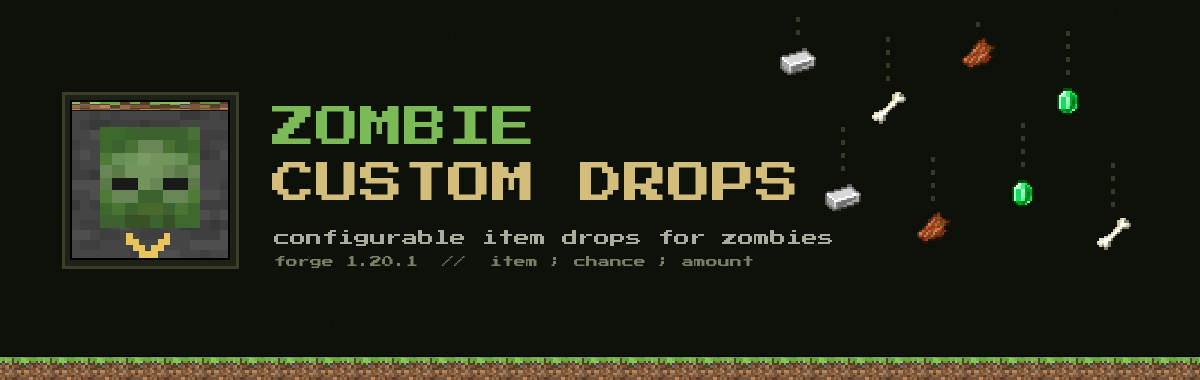
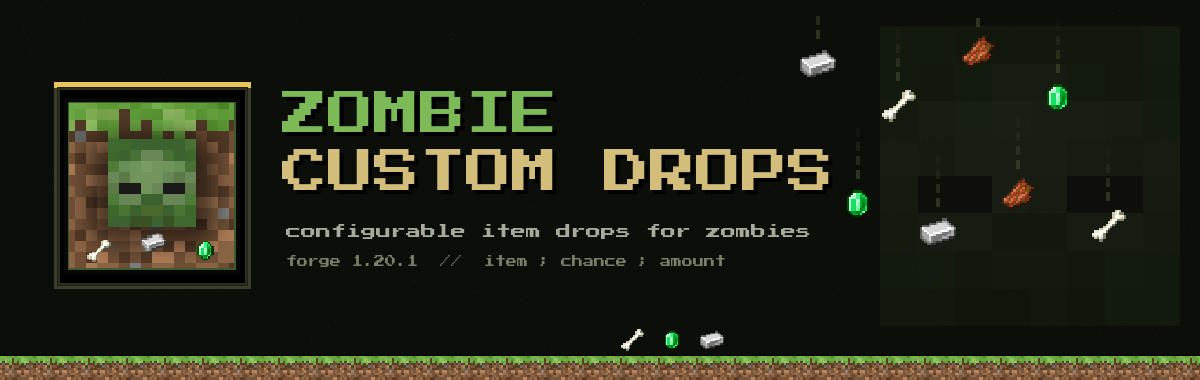
Polish README + brand assets for 1.0.0-beta
Reworked banner (shadowed title, item rain with motion trails, watermark
face, vignette) and logo (full-bleed grass-block face with embedded
zombie head + drops). README gains badges, feature list, entry-format
table and requirements. tools/ is now gitignored - asset generator stays
local. Mod version bumped to 1.20.1-1.0.0-beta.

diff --git a/tools/make_assets.py b/tools/make_assets.py
@@ -4,68 +4,108 @@ Outputs:
   docs/logo.png    128x128 mod icon (also copied to src/main/resources/logo.png)
   docs/banner.png  1200x380 repo/curseforge banner
 """
+import math
 import random
 from pathlib import Path
-from PIL import Image, ImageDraw, ImageFont
+from PIL import Image, ImageDraw, ImageFilter, ImageFont
 
 ROOT = Path(__file__).resolve().parent.parent
 FONT = str(ROOT / 'tools' / 'PressStart2P.ttf')
 VAN = ROOT / 'tools' / 'vanilla'
 random.seed(7)
 
-BG    = (14, 16, 10)
-BG2   = (20, 23, 14)
-KHAKI = (211, 189, 122)
-MUTE  = (122, 128, 104)
+BG      = (12, 14, 9)
+BG2     = (19, 22, 13)
+PANEL   = (30, 33, 22)
+EDGE    = (58, 62, 42)
+KHAKI   = (211, 189, 122)
+MUTE    = (122, 128, 104)
 GREEN_L = (124, 186, 88)
-GOLD  = (232, 196, 90)
+GREEN_D = (60, 92, 44)
+GOLD    = (232, 196, 90)
+BONE    = (198, 198, 190)
 
 ZFACE = Image.open(VAN / 'zface.png')          # 8x8 vanilla zombie face
+ZSKIN = Image.open(VAN / 'zombie.png')         # 64x64 vanilla zombie skin
 ITEMS = {k: Image.open(VAN / f'{k}.png') for k in ('iron_ingot', 'bone', 'rotten_flesh', 'emerald')}
 GRASS_SIDE = Image.open(VAN / 'grass_block_side.png')
-DIRT = Image.open(VAN / 'dirt.png')
 STONE = Image.open(VAN / 'stone.png')
 
 
-def tile(img, tex, box):
-    """Tile a 16x16 block texture across box (x0,y0,x1,y1), scaled px/tex-px."""
-    pass  # unused
+def zombie_head(scale):
+    """Flat 2D vanilla zombie face, nearest-neighbour scaled."""
+    return ZFACE.resize((ZFACE.width * scale, ZFACE.height * scale), Image.NEAREST)
 
 
-def down_arrow(g, ox, oy, px=1, color=GOLD):
-    rows = ["X     X",
-            "XX   XX",
-            " XX XX ",
-            "  XXX  ",
-            "   X   "]
-    for y, row in enumerate(rows):
-        for x, ch in enumerate(row):
-            if ch == 'X':
-                g.rectangle([ox + x * px, oy + y * px,
-                             ox + (x + 1) * px - 1, oy + (y + 1) * px - 1], fill=color)
+def vignette(im, strength=90):
+    """Darken corners via a radial alpha mask."""
+    w, h = im.size
+    mask = Image.new('L', (w, h), 0)
+    mg = ImageDraw.Draw(mask)
+    mg.ellipse([-w * 0.35, -h * 0.45, w * 1.35, h * 1.45], fill=strength)
+    mask = mask.filter(ImageFilter.GaussianBlur(60))
+    dark = Image.new('RGB', (w, h), (0, 0, 0))
+    im.paste(dark, (0, 0), mask.point(lambda p: strength - p))
+
+
+def noise(im, n=1400, colors=(BG2, (24, 27, 16))):
+    g = ImageDraw.Draw(im)
+    for _ in range(n):
+        g.point((random.randrange(im.width), random.randrange(im.height)),
+                fill=colors[0] if random.random() < .6 else colors[1])
+
+
+def shadow_text(g, xy, text, font, fill, shadow=(0, 0, 0), off=3):
+    x, y = xy
+    g.text((x + off, y + off), text, font=font, fill=shadow)
+    g.text((x, y), text, font=font, fill=fill)
+
+
+def chip(g, x, y, text, font, fg=KHAKI, edge=EDGE, bg=PANEL):
+    """Small outlined tag box; returns x after the chip."""
+    w = g.textlength(text, font=font) + 14
+    g.rectangle([x, y, x + w, y + 18], fill=bg, outline=edge, width=2)
+    g.text((x + 7, y + 4), text, font=font, fill=fg)
+    return x + w + 8
+
+
+def rain_item(im, g, icon, x, y, size=36, trail=(56, 62, 40)):
+    """Item sprite with a fading dashed motion trail above it."""
+    ic = icon.convert('RGBA').resize((size, size), Image.NEAREST)
+    for i, ty in enumerate(range(y - 16, y - size - 30, -14)):
+        a = 200 - i * 55
+        if a > 0 and ty > 8:
+            seg = Image.new('RGBA', (4, 9), trail + (a,))
+            im.paste(seg, (x + size // 2 - 2, ty), seg)
+    im.paste(ic, (x, y), ic)
 
 
 def make_logo():
     S = 128
     im = Image.new('RGBA', (S, S), (0, 0, 0, 0))
+    # darkened stone block face
+    # full-bleed grass-block face: grass band on top, dirt below - reads
+    # as an actual Minecraft block, not a framed tile
+    block = GRASS_SIDE.convert('RGB').resize((S, S), Image.NEAREST)
+    block = block.point(lambda p: int(p * 0.92))
+    im.paste(block, (0, 0))
     g = ImageDraw.Draw(im)
-    # stone block bg
-    stone = STONE.convert('RGB').resize((S, S), Image.NEAREST).dark if False else None
-    st = STONE.convert('RGB').resize((S, S), Image.NEAREST)
-    st = st.point(lambda p: int(p * 0.55))  # darken
-    im.paste(st, (0, 0))
-    g = ImageDraw.Draw(im)
-    # grass cap strip (real grass_block_side texture, 4 rows of tiles)
-    gs = GRASS_SIDE.convert('RGB').resize((S, 18), Image.NEAREST)
-    top = gs.crop((0, 0, S, 8))
-    im.paste(top, (0, 0))
-    g.rectangle([0, 8, S - 1, 8], fill=(0, 0, 0, 90))
-    # real vanilla zombie face, 8x8 -> 80px
-    face = ZFACE.resize((80, 80), Image.NEAREST)
-    im.paste(face, (24, 22), face)
-    # drop arrow
-    down_arrow(g, 45, 106, px=5)
-    g.rectangle([0, 0, S - 1, S - 1], outline=(0, 0, 0), width=2)
+    # soft dark pocket in the dirt so the face pops
+    halo = Image.new('RGBA', (S, S), (0, 0, 0, 0))
+    hg = ImageDraw.Draw(halo)
+    hg.rounded_rectangle([22, 30, S - 22, 102], radius=10, fill=(0, 0, 0, 110))
+    halo = halo.filter(ImageFilter.GaussianBlur(8))
+    im.paste(halo, (0, 0), halo)
+    # flat 2D zombie face sunk into the block
+    zed = zombie_head(8)   # 8x8 -> 64x64
+    im.paste(zed, ((S - zed.width) // 2, 30), zed)
+    # drops spilling out of the block bottom edge
+    for i, (kind, x) in enumerate(zip(('bone', 'iron_ingot', 'emerald'), (16, 56, 94))):
+        ic = ITEMS[kind].convert('RGBA').resize((18, 18), Image.NEAREST)
+        im.paste(ic, (x, 102 - (i % 2) * 6), ic)
+    # frame: dark outer, thin green inner accent
+    g.rectangle([0, 0, S - 1, S - 1], outline=(8, 9, 6), width=3)
+    g.rectangle([3, 3, S - 4, S - 4], outline=GREEN_D, width=1)
     im.save(ROOT / 'docs' / 'logo.png')
     im.save(ROOT / 'src' / 'main' / 'resources' / 'logo.png')
     print('logo.png -> docs/ + resources/')
@@ -74,43 +114,53 @@ def make_logo():
 def make_banner():
     W, H = 1200, 380
     im = Image.new('RGB', (W, H), BG)
+    noise(im)
     g = ImageDraw.Draw(im)
-    for _ in range(1600):
-        x = random.randrange(W); y = random.randrange(H)
-        g.point((x, y), fill=BG2 if random.random() < .6 else (24, 27, 16))
 
-    # left: logo on a stone tile frame
-    logo = Image.open(ROOT / 'docs' / 'logo.png').convert('RGBA').resize((160, 160), Image.NEAREST)
-    g.rectangle([62, 92, 238, 268], fill=(30, 33, 22))
-    im.paste(logo, (70, 100), logo)
-    g.rectangle([62, 92, 238, 268], outline=(58, 62, 42), width=3)
+    # faint giant zombie face watermark far right
+    big = ZFACE.convert('RGBA').resize((300, 300), Image.NEAREST)
+    big.putalpha(big.split()[3].point(lambda p: int(p * 0.12) if p else 0))
+    im.paste(big, (880, 26), big)
 
-    # title
-    f_big = ImageFont.truetype(FONT, 44)
-    f_sub = ImageFont.truetype(FONT, 16)
-    f_tag = ImageFont.truetype(FONT, 12)
-    g.text((272, 106), 'ZOMBIE', font=f_big, fill=GREEN_L)
-    g.text((272, 162), 'CUSTOM DROPS', font=f_big, fill=KHAKI)
-    g.text((274, 230), 'configurable item drops for zombies', font=f_sub, fill=(170, 172, 158))
-    g.text((274, 256), 'forge 1.20.1  //  item ; chance ; amount', font=f_tag, fill=MUTE)
+    # (logo plaque carries the zombie; right side is just raining drops)
 
-    # raining REAL item sprites
-    kinds = ['iron_ingot', 'bone', 'rotten_flesh', 'emerald', 'iron_ingot', 'rotten_flesh', 'emerald', 'bone']
-    xs   = [780, 870, 960, 1050, 825, 915, 1005, 1095]
-    ys   = [44, 90, 36, 84, 180, 210, 176, 216]
-    for kind, x, y in zip(kinds, xs, ys):
-        ic = ITEMS[kind].convert('RGBA').resize((36, 36), Image.NEAREST)
-        im.paste(ic, (x, y), ic)
-        for ty in range(y - 14, y - 58, -13):
-            if ty > 12:
-                g.rectangle([x + 16, ty, x + 19, ty + 4], fill=(52, 58, 38))
+    # logo plaque
+    logo = Image.open(ROOT / 'docs' / 'logo.png').convert('RGBA').resize((176, 176), Image.NEAREST)
+    g.rectangle([54, 84, 250, 288], fill=PANEL)
+    g.rectangle([58, 88, 246, 284], fill=(0, 0, 0, 0), outline=(44, 47, 32), width=2)
+    im.paste(logo, (64, 98), logo)
+    g.rectangle([54, 84, 250, 288], outline=EDGE, width=3)
+    g.rectangle([54, 84, 250, 84], outline=GOLD, width=3)   # gold top edge accent
 
-    # ground strip: real grass_block_side tiles (top half of the tile)
+    # title with drop shadow
+    f_big = ImageFont.truetype(FONT, 46)
+    f_sub = ImageFont.truetype(FONT, 15)
+    f_tag = ImageFont.truetype(FONT, 11)
+    shadow_text(g, (282, 92), 'ZOMBIE', f_big, GREEN_L, off=4)
+    shadow_text(g, (282, 150), 'CUSTOM DROPS', f_big, KHAKI, off=4)
+    g.text((286, 224), 'configurable item drops for zombies', font=f_sub, fill=(168, 170, 156))
+    g.text((286, 256), 'forge 1.20.1  //  item ; chance ; amount', font=f_tag, fill=MUTE)
+
+    # raining items on the right, over the watermark face
+    kinds = ['iron_ingot', 'bone', 'rotten_flesh', 'emerald',
+             'emerald', 'iron_ingot', 'rotten_flesh', 'bone']
+    xs = [800, 880, 960, 1040, 840, 920, 1000, 1090]
+    ys = [46, 88, 34, 80, 186, 214, 176, 208]
+    for kind, x0, y0 in zip(kinds, xs, ys):
+        rain_item(im, g, ITEMS[kind], x0, y0, size=36)
+
+    # a few stragglers low over the grass line
+    for kind, x0 in zip(('bone', 'emerald', 'iron_ingot'), (620, 660, 700)):
+        ic = ITEMS[kind].convert('RGBA').resize((24, 24), Image.NEAREST)
+        im.paste(ic, (x0, H - 52), ic)
+
+    # ground strip: real grass_block_side tiles
     tile = GRASS_SIDE.convert('RGB').resize((38, 38), Image.NEAREST).crop((0, 0, 38, 24))
-    for x in range(0, W, 38):
-        im.paste(tile, (x, H - 24))
-    g.rectangle([0, H - 24, W - 1, H - 24], fill=(0, 0, 0))
+    for x0 in range(0, W, 38):
+        im.paste(tile, (x0, H - 24))
+    g.rectangle([0, H - 25, W - 1, H - 25], fill=(0, 0, 0))
 
+    vignette(im)
     im.save(ROOT / 'docs' / 'banner.png')
     print('banner.png -> docs/')
 

diff --git a/README.md b/README.md
@@ -1,15 +1,38 @@
+<div align="center">
+
 ![Zombie Custom Drops](docs/banner.png)
 
 # Zombie Custom Drops
 
-Configurable extra item drops for zombies — Forge 1.20.1.
+**Configurable extra item drops for zombie-family mobs — item, chance, and stack size per entry.**
 
-The stock mods that make zombies drop loot are fine, but none of them let you
-pick **which items**, **the drop chance**, or **the amount**. This one does.
+[![Minecraft](https://img.shields.io/badge/Minecraft-1.20.1-62b47a?style=flat-square&logo=minecraft)](https://www.minecraft.net)
+[![Forge](https://img.shields.io/badge/Forge-47.4.0%2B-DFA86A?style=flat-square)](https://files.minecraftforge.net)
+[![Java](https://img.shields.io/badge/Java-17-ED8B00?style=flat-square&logo=openjdk&logoColor=white)](https://adoptium.net)
+[![License](https://img.shields.io/badge/License-MIT-blue?style=flat-square)](LICENSE)
+
+</div>
+
+---
+
+Stock "zombies drop more loot" mods give you whatever the author hardcoded.
+**Zombie Custom Drops** hands you the config: pick **which items**, set the
+**drop chance**, choose the **stack range** — per entry, hot-reloaded, works
+with vanilla and modded items alike.
+
+## Features
+
+- **Per-entry drop rules** — `item;chance;min;max`, each entry rolls independently
+- **Whole zombie family** — zombie, husk, drowned, zombie villager, zombified piglin out of the box
+- **Modded items welcome** — any `namespace:item` id, including TaCZ ammo, mod currency, quest items
+- **Entity-type tags** — `#minecraft:undead`, `#forge:zombies`, any tag you want
+- **Player-kill option** — gate drops behind player kills to keep mob farms honest
+- **Hot reload** — `/reload`-free: config changes apply on file save
+- **Zero dependencies** — single jar, Forge only
 
 ## Configuration
 
-Config file: `config/zombie_custom_drops-common.toml` (created on first launch).
+`config/zombie_custom_drops-common.toml` (created on first launch):
 
 ```toml
 [drops]
@@ -38,7 +61,13 @@ requirePlayerKill = false
 debugLog = false
 ```
 
-Changes apply on config reload — no restart needed.
+### Entry format
+
+| Field   | Type        | Example          | Notes                                  |
+|---------|-------------|------------------|----------------------------------------|
+| item    | `mod:item`  | `tacz:ammo`      | Any registered item — modded included  |
+| chance  | `0.0`–`1.0` | `0.08` (8%)      | Rolled independently per kill          |
+| min/max | int         | `4;12`           | Stack range; omit both to default to 1 |
 
 ## Build
 
@@ -47,3 +76,15 @@ gradlew build
 ```
 
 Jar lands in `build/libs/zombie_custom_drops-1.20.1-1.0.0.jar`.
+
+## Requirements
+
+|           |              |
+|-----------|--------------|
+| Minecraft | 1.20.1       |
+| Forge     | 47.4.0+      |
+| Java      | 17           |
+
+## License
+
+MIT — see [LICENSE](LICENSE).
